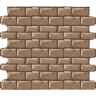
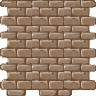
Updated wall texture, added Text actor ans Levelname, added level name to main.

Changed region(s): [[0.0, 0.0, 1.0, 0.0938], [0.0625, 0.9062, 1.0, 1.0], [0.9062, 0.8125, 1.0, 0.875]]

diff --git a/BGJ03/js/main.js b/BGJ03/js/main.js
@@ -21,17 +21,16 @@ MainState = gamvas.State.extend({
                 }
             }
         }
+		
+		this.addActor(new LevelName("Hard as hell"));
 
         gamvas.config.preventKeyEvents = false;
         gamvas.config.preventMouseEvents = false;
     },
 
-    draw: function(t) {
+    //draw: function(t) {
         //gamvas.physics.drawDebug();
-        //this.c.fillStyle = '#fff';
-        //this.c.font = 'bold 20px sans-serif';
-		//this.c.fillText("This level is hard as hell.", 0, 0);
-    },
+    //},
 
     onMouseDown: function(b, x, y) {
         if (b == gamvas.mouse.LEFT) {

diff --git a/BGJ03/js/textactor.js b/BGJ03/js/textactor.js
@@ -1,0 +1,26 @@
+TextActor = gamvas.Actor.extend(
+{
+    create: function(name, text, x, y)
+	{
+		this._super(name, x, y);
+		this.text = text;
+		this.color = '#fff';
+		this.font = 'bold 16px sans-serif';
+	},
+	
+	draw: function(t)
+	{
+		var st = gamvas.state.getCurrentState();
+        st.c.fillStyle = this.color;
+        st.c.font = this.font;
+		st.c.fillText(this.text, this.position.x, this.position.y);
+	}
+});
+
+LevelName = TextActor.extend(
+{
+    create: function(text)
+	{
+		this._super("levelname", text, 120, 593);
+	}
+});

diff --git a/BGJ03/index.html b/BGJ03/index.html
@@ -11,6 +11,7 @@
         <!-- Actors -->
         <script src="js/player.js"></script>
         <script src="js/tile.js"></script>
+		<script src="js/textactor.js"></script>
 
         <!-- Game States -->
         <script src="js/main.js"></script>
